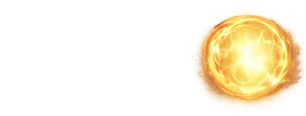
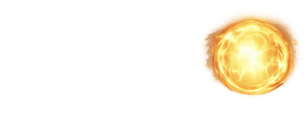
release 1.2.3 fixed arrow tail

Changed region(s): [[0.6176, 0.1034, 1.0, 0.931]]

diff --git a/entities/projectile_node.py b/entities/projectile_node.py
@@ -188,6 +188,152 @@ class ArrowCometTrailNode(pygame.sprite.Sprite):
 
 
 # ============================================================
+# Particle Trail (Dots / Sparkles)
+# ============================================================
+
+@dataclass
+class _Particle:
+    pos: pygame.Vector2
+    vel: pygame.Vector2
+    life: float
+    max_life: float
+    radius: float
+    color: tuple[int, int, int]
+
+
+class ArrowParticleTrailNode(pygame.sprite.Sprite):
+    """หางแบบอนุภาค (Particle System) สำหรับลูกธนู (bow_power_1/2)
+    
+    - ปล่อยจุดวงกลมเล็ก ๆ ตามทาง
+    - ค่อย ๆ จางและเล็กลง
+    """
+
+    def __init__(
+        self,
+        projectile: pygame.sprite.Sprite,
+        *groups: pygame.sprite.AbstractGroup,
+        rate: float = 0.005,  # ปล่อยทุกๆ 5ms
+        life: float = 0.4,
+        radius: float = 4.0,
+        speed_variance: float = 10.0,
+        main_rgb: tuple[int, int, int] = (255, 255, 255),
+    ) -> None:
+        try:
+            self._layer = int(getattr(projectile, "_layer", 0)) - 1
+        except Exception:
+            pass
+
+        super().__init__(*groups)
+
+        self._target_ref = weakref.ref(projectile)
+        self.rate = rate
+        self.life = life
+        self.radius = radius
+        self.speed_variance = speed_variance
+        self.main_rgb = main_rgb
+        
+        from random import uniform
+        self.rng = uniform
+
+        self._timer = 0.0
+        self.particles: list[_Particle] = []
+        
+        self.image = pygame.Surface((1, 1), pygame.SRCALPHA)
+        self.rect = self.image.get_rect()
+
+    def update(self, dt: float) -> None:
+        target = self._target_ref()
+        
+        # 1. Spawn particles if target is alive
+        if target is not None and target.alive():
+            self._timer += dt
+            while self._timer >= self.rate:
+                self._timer -= self.rate
+                self._spawn_particle(target)
+        elif not self.particles:
+            # Target gone and no particles left -> die
+            self.kill()
+            return
+
+        # 2. Update particles
+        dt_sec = float(dt)
+        alive_particles = []
+        for p in self.particles:
+            p.life -= dt_sec
+            if p.life > 0:
+                p.pos += p.vel * dt_sec
+                alive_particles.append(p)
+        self.particles = alive_particles
+
+        # 3. Redraw
+        if self.particles:
+            self._rebuild_image()
+
+    def _spawn_particle(self, target: pygame.sprite.Sprite) -> None:
+        import random
+        center = pygame.Vector2(target.rect.center)
+        # Random offset slightly
+        offset = pygame.Vector2(random.uniform(-2, 2), random.uniform(-2, 2))
+        
+        # Velocity opposite to projectile direction? Or random?
+        # Let's make them drift slightly randomly
+        vel = pygame.Vector2(random.uniform(-1, 1), random.uniform(-1, 1)) * self.speed_variance
+        
+        p = _Particle(
+            pos=center + offset,
+            vel=vel,
+            life=self.life,
+            max_life=self.life,
+            radius=self.radius * random.uniform(0.8, 1.2),
+            color=self.main_rgb
+        )
+        self.particles.append(p)
+
+    def _rebuild_image(self) -> None:
+        if not self.particles:
+            return
+
+        # Calculate bounds
+        min_x = min(p.pos.x for p in self.particles)
+        min_y = min(p.pos.y for p in self.particles)
+        max_x = max(p.pos.x for p in self.particles)
+        max_y = max(p.pos.y for p in self.particles)
+
+        pad = 10
+        w = int(max_x - min_x) + pad * 2
+        h = int(max_y - min_y) + pad * 2
+        
+        surf = pygame.Surface((max(1, w), max(1, h)), pygame.SRCALPHA)
+        ox = min_x - pad
+        oy = min_y - pad
+
+        for p in self.particles:
+            # Ratio 1.0 (new) -> 0.0 (old)
+            ratio = p.life / p.max_life
+            
+            # Fade out alpha
+            alpha = int(255 * (ratio ** 0.5))
+            
+            # Shrink radius
+            r = p.radius * ratio
+            if r < 0.5:
+                continue
+
+            # Draw circle
+            color = (*p.color, alpha)
+            draw_pos = (int(p.pos.x - ox), int(p.pos.y - oy))
+            
+            # Glow effect (draw larger faint circle, then smaller bright one)
+            # Faint
+            pygame.draw.circle(surf, (*p.color, int(alpha * 0.3)), draw_pos, int(r * 2))
+            # Core
+            pygame.draw.circle(surf, color, draw_pos, int(r))
+
+        self.image = surf
+        self.rect = self.image.get_rect(topleft=(int(ox), int(oy)))
+
+
+# ============================================================
 # Projectile
 # ============================================================
 
@@ -206,9 +352,9 @@ class ProjectileNode(AnimatedNode):
     _TRAIL_THEMES: dict[str, tuple[tuple[int,int,int], tuple[int,int,int], int, int]] = {
         "gold":     ((255, 210, 120), (255, 255, 255), 165, 220),
         "arcane":   ((180, 120, 255), (255, 255, 255), 175, 230),  # purple
-        "plasma":   ((120, 230, 255), (255, 255, 255), 170, 230),  # cyan
+        "plasma":   ((120, 230, 255), (255, 255, 255), 80, 140),  # cyan
         "crimson":  ((255, 110,  80), (255, 245, 235), 175, 230),  # red
-        "holy":     ((255, 225, 140), (255, 255, 255), 170, 230),  # warm gold
+        "holy":     ((255, 225, 140), (255, 255, 255), 80, 140),  # warm gold
         "toxic":    ((140, 255, 160), (255, 255, 255), 160, 220),  # green
         "storm":    (( 70, 255, 255), (255, 255, 255), 170, 230),  # teal
         # aliases
@@ -380,24 +526,63 @@ class ProjectileNode(AnimatedNode):
         if render_group is None:
             return
 
-        # arrow2 อาจอยากให้ดูแรงขึ้นนิด (แต่ยังคุมด้วย theme ได้)
-        max_thick = 12 if pid == "arrow2" else 11
-        life = 0.20 if pid == "arrow2" else 0.18
+        # ✅ Check usage for Particle vs Ribbon
+        # bow_power_1 ("gold") / bow_power_2 ("arcane") -> Particle
+        # But wait, maybe "arcane" is used elsewhere? 
+        # The user specifically asked for bow_power_1 and bow_power_2.
+        
+        use_particle = False 
+        
+        # Also check if theme matches specific ones if weapon_id is unavailable (e.g. passed from PlayerNode explicitly)
+        # PlayerNode passes "plasma" for bow_power_1, "holy" for bow_power_2??
+        # Correction: In PlayerNode._shoot_projectile:
+        # bow_power_1 -> theme="plasma" (wait, code said plasma, but _maybe_attach checks gold?)
+        # Let's check PlayerNode again or just trust weapon_id if available.
+        # Actually PlayerNode passes `trail_theme`.
+        
+        # If we rely on theme passed from PlayerNode:
+        # bow_power_1 -> "plasma"
+        # bow_power_2 -> "holy"
+        # bow_power_3 -> "storm"
+        
+        # We can just check the theme names too to be safe/consistent.
+        if theme in ("plasma", "gold", "holy", "arcane"):
+             # Assuming these are the ones for bow_power_1/2
+             # But wait, bow_power_2 in PlayerNode uses "holy".
+             # Let's explicitly check weapon_id if possible, or mapping.
+             pass
 
-        ArrowCometTrailNode(
-            self,
-            render_group,
-            life=life,
-            sample_interval=0.010,
-            max_points=28 if pid == "arrow2" else 26,
-            max_thickness=max_thick,
-            min_thickness=2,
-            glow_passes=2,
-            main_rgb=main_rgb,
-            core_rgb=core_rgb,
-            alpha_main=a_main,
-            alpha_core=a_core,
-        )
+        if use_particle:
+            # Particle Trail
+            ArrowParticleTrailNode(
+                self,
+                render_group,
+                rate=0.005,
+                life=0.45,
+                radius=4.5 if theme == "holy" else 4.0, # bow_power_2 slightly bigger
+                speed_variance=12.0,
+                main_rgb=main_rgb,
+            )
+        else:
+            # Original Comet Trail (Ribbon)
+            # arrow2 อาจอยากให้ดูแรงขึ้นนิด (แต่ยังคุมด้วย theme ได้)
+            max_thick = 12 if pid == "arrow2" else 11
+            life = 0.20 if pid == "arrow2" else 0.18
+
+            ArrowCometTrailNode(
+                self,
+                render_group,
+                life=life,
+                sample_interval=0.010,
+                max_points=28 if pid == "arrow2" else 26,
+                max_thickness=max_thick,
+                min_thickness=2,
+                glow_passes=2,
+                main_rgb=main_rgb,
+                core_rgb=core_rgb,
+                alpha_main=a_main,
+                alpha_core=a_core,
+            )
 
     # ------------------------------------------------------------------
     # Legacy frame load (ถูกแทนที่ด้วย _load_raw_frames + _rotate_frames)
